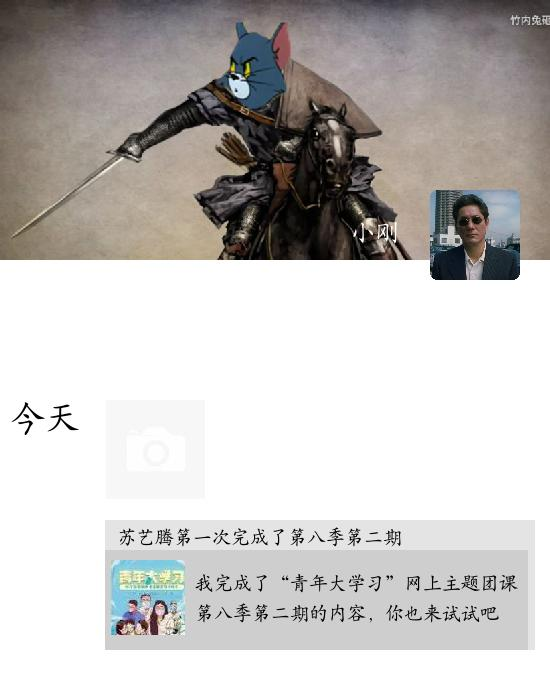
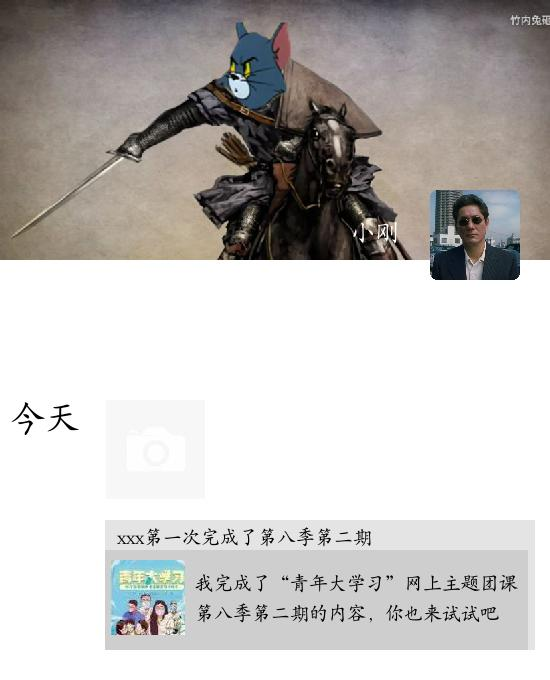
commit

Changed region(s): [[0.2164, 0.7721, 0.7418, 0.8029]]

diff --git a/faker.py b/faker.py
@@ -72,7 +72,7 @@ ft2 = ImageFont.truetype("C:\\WINDOWS\\Fonts\\HGKT_CNKI.TTF", 35)
 draw.text((10,400),u"今天",font=ft2,fill = "black")
 
 ft3 = ImageFont.truetype("C:\\WINDOWS\\Fonts\\HGKT_CNKI.TTF", 19)
-draw.text((textBox_y+12,textBox_x+7),u"苏艺腾第一次完成了第八季第二期",font = ft3,fill = 'black')
+draw.text((textBox_y+12,textBox_x+7),u"xxx第一次完成了第八季第二期",font = ft3,fill = 'black')
 draw.text((textBox_y+90,textBox_x+53),u"我完成了“青年大学习”网上主题团课",font = ft3,fill = 'black')
 draw.text((textBox_y+90,textBox_x+83),u"第八季第二期的内容，你也来试试吧",font = ft3,fill = 'black')
 
